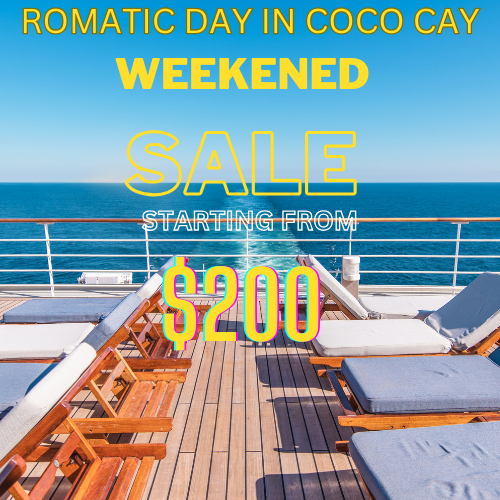
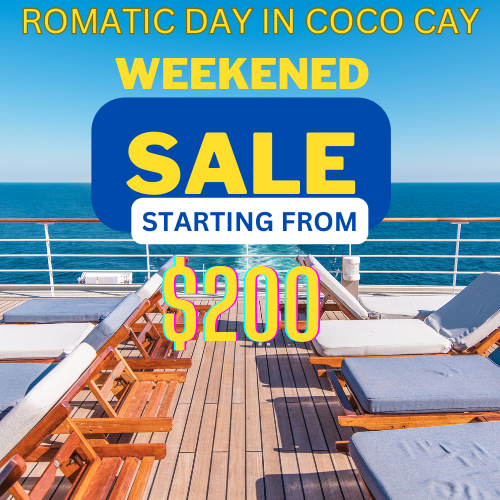
home css

Changed region(s): [[0.18, 0.18, 0.78, 0.51]]

diff --git a/main_app/templates/home.html b/main_app/templates/home.html
@@ -4,22 +4,55 @@
 <style>
 
   #image-wrapper {
-    height: 300px;
+    height: 304px;
     background-size: cover;
     width: 100%;
     background-image:url("../../static/images/ship.png");
   }
 
   .row {
-    font-style: oblique;
-    background-color: lightblue;
-    font-family: math;
+      font-family: "ProximaNova-Regular",Arial,sans-serif;
+      font-size: 1rem;
+      line-height: 150%;
+      margin:0;
+      padding:0;  
   }
 
   #cruise_home {
     border-style: groove;
-    width: 24%;
+    width: 24.6%;
+    margin:0;
+    padding:7px;
   }
+
+  h6 {
+      font-family: "ProximaNova-Regular",Arial,sans-serif;
+      font-size: 1rem;
+      line-height: 150%;
+      margin:0;
+      padding:16px;
+  }
+    
+
+  h5 {
+    font-family: "Kapra-Optimized",Impact,"Arial Narrow",Arial,sans-serif;
+    color:darkblue;
+    font-size: 3rem;
+    text-transform: uppercase;
+    line-height: 110%;
+    margin: 0;
+    padding: 13px;
+}
+
+h4 {
+    font-family: "ProximaNova-Regular",Arial,sans-serif;
+    color:darkblue;
+    font-size: 1rem;
+    letter-spacing: .125rem;
+    text-transform: uppercase;
+    margin:0;
+    padding:10px;
+}
 
 </style>
 <div class="grid text-center" style="--bs-columns: 3;">
@@ -31,8 +64,8 @@
 
 <div class="row">
   <div class="col-sm-6 order-md-2">
-    <h4>EXPLORE ALL THE FUN ABOARD DMC CRUISES</h4> 
-    You don’t have to break the bank for an incredible vacation. Cruise from a port near you to top-rated vacation destinations in the tropics and beyond. No matter where in the world you’re sailing from, you’ll find plenty of deals on epic itineraries sailing right from your backyard.
+    <h5>EXPLORE ALL THE FUN ABOARD DMC CRUISES</h5> 
+    <h6>You don’t have to break the bank for an incredible vacation. Cruise from a port near you to top-rated vacation destinations in the tropics and beyond. No matter where in the world you’re sailing from, you’ll find plenty of deals on epic itineraries sailing right from your backyard.</h6>
   </div>
 </div>
 
@@ -40,15 +73,34 @@
 <div class="row my-custome-row Justify-content-center align-items-center">
   <div class="col-sm-4 order-md-2"><div class="p-3 border bg-light"> 
     <img id="cruise_home" src="../../static/images/weekened.png">
-    <img id="cruise_home" src="../../static/images/alaska.png">
-    <img id="cruise_home" src="../../static/images/Europe.png">
-    <img id="cruise_home" src="../../static/images/caribbean.png">
+    <img id="cruise_home" src="../../static/images/alaskaa.png">
+    <img id="cruise_home" src="../../static/images/sale.png">
+    <img id="cruise_home" src="../../static/images/night.png">
   </div></div>
   <div class="col-sm-4 order-md-3"><div class="p-3 border bg-light"></div></div>
 </div>
 
-<h6>THE MOST EXCITING CRUISE DESTINATIONS</h6>
+<div class="row">
+  <div class="col-sm-6 order-md-2">
+    <h4>FUTURE GAMECHANGERS</h4>
+    <h5>ARRIVING 2024</h5> 
+  </div>
+</div>
+
+<div class="row">
+  <div class="col-sm-6 order-md-2">
+    <h5>TAKE ADVENTURE TO NEW HEIGHTS</h5> 
+    <h6>Everyone deserves a vacation. You’ll find endless opportunities to make the most of every moment — like game-changing activities, world-class dining, show-stopping entertainment, and plenty of ways to unwind in the sun</h6>
+  </div>
+</div>
+
+
+<h4>THE MOST EXCITING CRUISE DESTINATIONS</h4>
 <h5>AND AWARD-WINNING SHIPS</h5>
+<h6>Unlock some of the most incredible travel destinations. Get on island time and unwind on some of the best beaches in the world, venture deep into the rainforests, and snorkel the most vibrant reefs on a Caribbean or Bahamas cruise getaway with the whole family.</h6>
+<h6>Earn your wilderness badge as you cruise between the Alaska glaciers, pan for gold in prospecting towns, and trek across the rugged tundra on an Alaska vacation. And savor a burst of flavors throughout culture-rich ports in the Mediterranean, the British Isles, Scandinavia and beyond on an unforgettable cruise through Europe. No matter where in the world you choose to wander, cruises can take you deep into top-rated cruise ports and off-the-beaten-path gems, so you can experience each one like a local.</h6>
+<h6>It all starts with the boldest cruise ships at sea — and ours have won awards for everything from world class dining and spectacular entertainment, to record-setting onboard thrills and groundbreaking innovation. Whether you’re traveling solo or vacationing with the whole extended family, you’ll have all kinds of ahh-inducing cruise rooms to choose from, like affordable connecting staterooms that are perfect for groups, romantic rooms for couples craving rejuvenation and relaxation, and even a thrill-filled Ultimate Family Suite with a private game room and in-suite slide.
+</h6>
 <h7>Taxes, Fees and Port Expenses range from $74.49 to $426.86, and are assessed on a per guest basis for all guests according to the itinerary.</h7>
 
 {% endblock %}

diff --git a/main_app/templates/base.html b/main_app/templates/base.html
@@ -1,4 +1,5 @@
 {% load static %}
+
 <!DOCTYPE html>
 <html lang="en">
 <head>
@@ -14,7 +15,7 @@
 </head>
 <body>
     <header class="navbar-fixed">
-            <nav class="navbar" style="background-color: #4fabe4;">
+        <nav class="navbar" style="margin: -39px;padding: 0px;height: 87px;background-color: darkblue;">
                 <!-- Navbar content -->
             <div class="nav-wrapper">
                 <ul>
@@ -22,7 +23,7 @@
                 </ul>
                 <ul class="left">
                     <li>
-                        <img style="width:63px;" src="../../static/images/logo.png">
+                        <img style="width:86px;" src="../../static/images/logo.png">
                     </li>
                   <li><a href="{% url 'cruises' %}">Browse Cruise Ships</a></li>
                   <li><a href="{% url 'destinations' %}">Browse Destinations</a></li>
@@ -46,4 +47,19 @@
   </footer>
 </body>
 </html>
+
+<style>
+    nav ul a {
+        -webkit-transition: background-color .3s;
+        transition: background-color .3s;
+        font-size: 1.3rem;
+        color: #fff;
+        display: block;
+        padding: 0 15px;
+        cursor: initial;
+    }
+    nav ul a:hover {
+        background-color: lightblue;
+    }
+    </style>
 

diff --git a/main_app/static/css/style.css b/main_app/static/css/style.css
@@ -3,9 +3,9 @@ body {
     display: flex;
     min-height: 100vh;
     flex-direction: column;
-    font-family: system-ui, -apple-system, BlinkMacSystemFont, 'Segoe UI', Roboto, Oxygen, Ubuntu, Cantarell, 'Open Sans', 'Helvetica Neue', sans-serif
+    font-family: Kapra-Optimized",Impact,"Arial "Narrow","Arial","sans-serif";
   }
-  
+
   main {
     flex: 1 0 auto;
     background-color: white;
